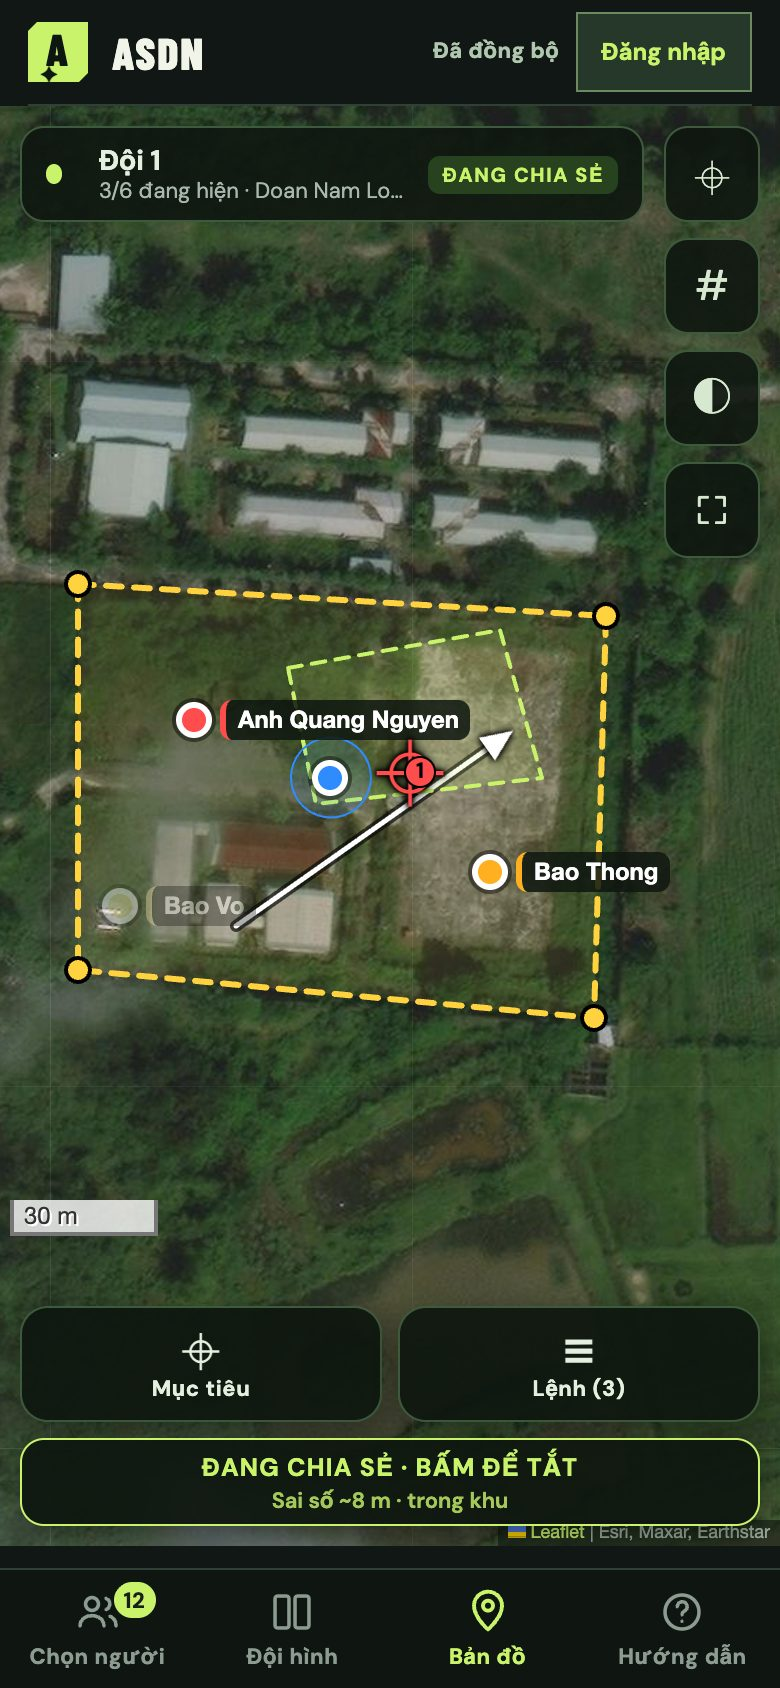
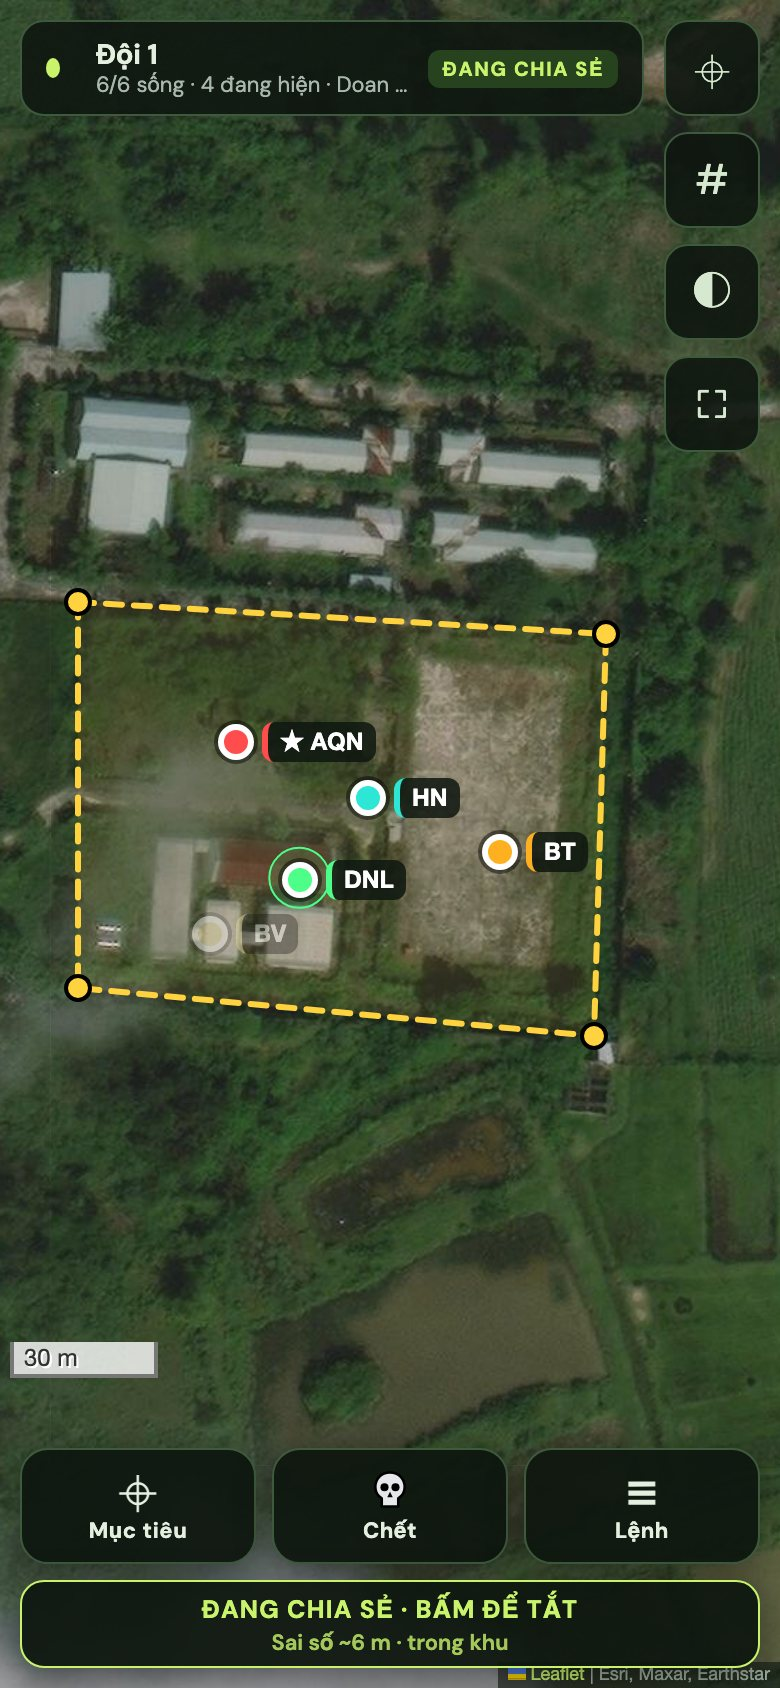
Guide: death marker screenshots (m22-m24), reshoot m05/m07/m12/m21 with the new Chết button
Shots taken from an in-memory Firestore harness, so no production data was touched. All pins and taps sit inside the play area.

diff --git a/guide-data.js b/guide-data.js
@@ -1086,7 +1086,7 @@ window.GUIDE={
        "desc": "Hiện Đội, số người đang hiện (ví dụ 3/6), tên bạn và trạng thái ĐANG CHIA SẺ / ĐANG XEM. Bấm để xem danh sách đội.",
        "role": null,
        "x": 2.56,
-       "y": 7.46,
+       "y": 1.18,
        "w": 80,
        "h": 5.69
       },
@@ -1095,7 +1095,7 @@ window.GUIDE={
        "desc": "Đưa bản đồ về vừa khu chơi (khung vàng 4 góc).",
        "role": null,
        "x": 85.13,
-       "y": 7.46,
+       "y": 1.18,
        "w": 12.31,
        "h": 5.69
       },
@@ -1104,7 +1104,7 @@ window.GUIDE={
        "desc": "Bật/tắt lưới ô vuông.",
        "role": null,
        "x": 85.13,
-       "y": 14.1,
+       "y": 7.82,
        "w": 12.31,
        "h": 5.69
       },
@@ -1113,7 +1113,7 @@ window.GUIDE={
        "desc": "Đổi giữa Esri chuẩn và Clarity.",
        "role": null,
        "x": 85.13,
-       "y": 20.73,
+       "y": 14.45,
        "w": 12.31,
        "h": 5.69
       },
@@ -1122,7 +1122,7 @@ window.GUIDE={
        "desc": "Xoay ngang để xem rộng hơn. Chỉ hiện khi máy hỗ trợ.",
        "role": null,
        "x": 85.13,
-       "y": 27.37,
+       "y": 21.09,
        "w": 12.31,
        "h": 5.69
       },
@@ -1130,8 +1130,8 @@ window.GUIDE={
        "title": "GPS đồng đội",
        "desc": "Chấm màu có tên là vị trí GPS từng đồng đội, mỗi người một màu. Mờ đi khi quá 60 giây chưa cập nhật, ẩn sau 5 phút. Người đã báo chết thì chấm GPS ẩn, chỉ còn ghim ☠ tại chỗ chết.",
        "role": null,
-       "x": 22.56,
-       "y": 41.47,
+       "x": 27.95,
+       "y": 42.77,
        "w": 0,
        "h": 2.37
       },
@@ -1139,17 +1139,17 @@ window.GUIDE={
        "title": "Chấm xanh là bạn",
        "desc": "Vị trí của bạn, kèm vòng sai số GPS.",
        "role": null,
-       "x": 40,
-       "y": 45.02,
-       "w": 4.62,
-       "h": 2.13
+       "x": 36.15,
+       "y": 50.95,
+       "w": 0,
+       "h": 2.37
       },
       {
        "title": "Nút chia sẻ",
        "desc": "Bấm để bật hoặc tắt chia sẻ vị trí. Dưới nút ghi sai số GPS và \"trong khu\" hay \"ngoài khu\".",
        "role": null,
        "x": 2.56,
-       "y": 85.18,
+       "y": 93.59,
        "w": 94.87,
        "h": 5.22
       },
@@ -1158,17 +1158,26 @@ window.GUIDE={
        "desc": "Đánh dấu mục tiêu cho cả đội (xem bên dưới).",
        "role": null,
        "x": 2.56,
-       "y": 77.36,
-       "w": 46.41,
+       "y": 85.77,
+       "w": 30.26,
+       "h": 6.87
+      },
+      {
+       "title": "☠ Chết",
+       "desc": "Bấm rồi chạm bản đồ nơi chết. Thành viên tự báo chết cho mình, đội trưởng chọn người chết.",
+       "role": null,
+       "x": 34.87,
+       "y": 85.77,
+       "w": 30.26,
        "h": 6.87
       },
       {
        "title": "☰ Lệnh",
        "desc": "Danh sách lệnh của đội, số trong ngoặc là số lệnh đang có.",
        "role": null,
-       "x": 51.03,
-       "y": 77.36,
-       "w": 46.41,
+       "x": 67.18,
+       "y": 85.77,
+       "w": 30.26,
        "h": 6.87
       }
      ],
@@ -1240,6 +1249,24 @@ window.GUIDE={
        "y": 0,
        "w": 0,
        "h": 0
+      },
+      {
+       "title": "Người đã chết",
+       "desc": "Tên gạch ngang, ghi giờ chết. Bấm để bay tới chỗ chết.",
+       "role": null,
+       "x": 4.1,
+       "y": 67.77,
+       "w": 91.79,
+       "h": 7.11
+      },
+      {
+       "title": "Hồi sinh",
+       "desc": "Báo nhầm thì bấm Hồi sinh. Người đó hoặc đội trưởng bấm được.",
+       "role": null,
+       "x": 74.36,
+       "y": 67.77,
+       "w": 21.54,
+       "h": 5.21
       }
      ],
      "alt": "Danh sách đội (bấm chip đội)"
@@ -1345,52 +1372,61 @@ window.GUIDE={
        "role": null,
        "x": 2.56,
        "y": 84.83,
-       "w": 14.1,
+       "w": 11.79,
+       "h": 7.82
+      },
+      {
+       "title": "☠ Chết",
+       "desc": "Đội trưởng chạm bản đồ rồi chọn ai chết ở đó (chọn được nhiều người).",
+       "role": null,
+       "x": 16.41,
+       "y": 84.83,
+       "w": 11.79,
        "h": 7.82
       },
       {
        "title": "Tấn công",
        "desc": "Đánh dấu hướng/điểm tấn công: chạm 1 điểm trên bản đồ (đỏ, tối đa 5).",
        "role": null,
-       "x": 18.72,
+       "x": 30.26,
        "y": 84.83,
-       "w": 14.1,
+       "w": 11.79,
        "h": 7.82
       },
       {
        "title": "Phòng thủ",
        "desc": "Đánh dấu vị trí phòng thủ: chạm 1 điểm (xanh, tối đa 5).",
        "role": null,
-       "x": 34.87,
+       "x": 44.1,
        "y": 84.83,
-       "w": 14.1,
+       "w": 11.79,
        "h": 7.82
       },
       {
        "title": "➚ Mũi tên",
        "desc": "Chỉ hướng đẩy/di chuyển: chạm ít nhất 2 điểm.",
        "role": null,
-       "x": 51.03,
+       "x": 57.95,
        "y": 84.83,
-       "w": 14.1,
+       "w": 11.79,
        "h": 7.82
       },
       {
        "title": "⬠ Vùng",
        "desc": "Khoanh một khu vực: chạm ít nhất 3 điểm.",
        "role": null,
-       "x": 67.18,
+       "x": 71.79,
        "y": 84.83,
-       "w": 14.1,
+       "w": 11.79,
        "h": 7.82
       },
       {
        "title": "☰ Lệnh",
        "desc": "Danh sách lệnh, và nút XÓA TẤT CẢ LỆNH (bấm 2 lần để xác nhận).",
        "role": null,
-       "x": 83.33,
+       "x": 85.64,
        "y": 84.83,
-       "w": 14.1,
+       "w": 11.79,
        "h": 7.82
       }
      ],
@@ -1405,8 +1441,8 @@ window.GUIDE={
        "title": "Tấn công",
        "desc": "Dấu đỏ, có số thứ tự (Tấn công 1, 2, …). Cả đội thấy trên bản đồ.",
        "role": null,
-       "x": 25.13,
-       "y": 63.74,
+       "x": 17.95,
+       "y": 45.14,
        "w": 11.28,
        "h": 5.21
       },
@@ -1414,8 +1450,8 @@ window.GUIDE={
        "title": "Phòng thủ",
        "desc": "Dấu xanh, có số thứ tự (Phòng thủ 1, 2, …). Cả đội thấy trên bản đồ.",
        "role": null,
-       "x": 66.15,
-       "y": 54.27,
+       "x": 59.74,
+       "y": 53.91,
        "w": 11.28,
        "h": 5.21
       }
@@ -1510,8 +1546,113 @@ window.GUIDE={
      ]
     },
     {
+     "t": "fig",
+     "shot": "m24-death-hint",
+     "caption": "Thành viên: chạm nơi bạn chết",
+     "marks": [
+      {
+       "title": "Dòng gợi ý",
+       "desc": "Chạm lên bản đồ đúng nơi bạn chết. Ghi luôn, không hỏi lại.",
+       "role": null,
+       "x": 2.56,
+       "y": 8.06,
+       "w": 80,
+       "h": 4.21
+      },
+      {
+       "title": "✕ Hủy",
+       "desc": "Bấm nếu không muốn báo chết nữa.",
+       "role": null,
+       "x": 2.56,
+       "y": 91.94,
+       "w": 94.87,
+       "h": 6.87
+      }
+     ],
+     "alt": "Gợi ý chạm bản đồ khi báo chết"
+    },
+    {
+     "t": "fig",
+     "shot": "m22-death-pin",
+     "caption": "Ghim ☠ và số người còn sống",
+     "marks": [
+      {
+       "title": "Số người sống",
+       "desc": "Ô Đội hiện số người còn sống, ví dụ 4/6.",
+       "role": null,
+       "x": 2.56,
+       "y": 1.18,
+       "w": 80,
+       "h": 5.69
+      },
+      {
+       "title": "Huy hiệu ☠",
+       "desc": "Số người đã chết trong đội.",
+       "role": null,
+       "x": 45.16,
+       "y": 2.84,
+       "w": 7.22,
+       "h": 2.37
+      },
+      {
+       "title": "Ghim ☠",
+       "desc": "Nơi người đó chết, viền theo màu và chữ viết tắt của họ. Chạm để xem giờ chết hoặc hồi sinh.",
+       "role": null,
+       "x": 23.85,
+       "y": 51.54,
+       "w": 6.15,
+       "h": 3.67
+      },
+      {
+       "title": "☠ Chết",
+       "desc": "Bấm rồi chạm bản đồ nơi chết. Thành viên tự báo chết cho mình, đội trưởng chọn người chết.",
+       "role": null,
+       "x": 16.41,
+       "y": 84.82,
+       "w": 11.79,
+       "h": 7.82
+      }
+     ],
+     "alt": "Ghim đầu lâu tại nơi đồng đội chết"
+    },
+    {
      "t": "p",
      "html": "<b>Đội trưởng</b> báo chết cho người khác: bấm <b>☠ Chết</b>, chạm nơi người đó chết, rồi chọn <b>ai chết ở đây</b> (chọn được nhiều người nếu cùng chết một chỗ) và bấm <b>BÁO CHẾT</b>. Dùng khi đồng đội quên bấm hoặc không cầm điện thoại. Đội trưởng cũng hồi sinh được bất kỳ ai trong đội."
+    },
+    {
+     "t": "fig",
+     "shot": "m23-death-pick",
+     "caption": "Đội trưởng: chọn ai chết ở đây",
+     "marks": [
+      {
+       "title": "Danh sách đội",
+       "desc": "Chọn một hoặc nhiều người cùng chết ở chỗ vừa chạm.",
+       "role": null,
+       "x": 4.1,
+       "y": 36.49,
+       "w": 91.79,
+       "h": 46.21
+      },
+      {
+       "title": "Đã chọn",
+       "desc": "Chạm lần nữa để bỏ chọn.",
+       "role": null,
+       "x": 4.1,
+       "y": 52.13,
+       "w": 91.79,
+       "h": 7.11
+      },
+      {
+       "title": "BÁO CHẾT",
+       "desc": "Ghi những người đã chọn là chết tại điểm đã chạm.",
+       "role": null,
+       "x": 4.1,
+       "y": 85.07,
+       "w": 91.79,
+       "h": 6.16
+      }
+     ],
+     "alt": "Đội trưởng chọn người chết"
     },
     {
      "t": "p",

diff --git a/guide.js b/guide.js
@@ -16,7 +16,7 @@
 
   function figure(b) {
     var fig = el('div', 'g-fig');
-    var shot = el('div', 'g-shot'); var img = el('img'); img.src = 'guide/' + b.shot + '.jpg?v=5'; img.alt = b.alt || b.caption || ''; img.loading = 'lazy'; shot.append(img);
+    var shot = el('div', 'g-shot'); var img = el('img'); img.src = 'guide/' + b.shot + '.jpg?v=6'; img.alt = b.alt || b.caption || ''; img.loading = 'lazy'; shot.append(img);
     var legend = el('ol', 'g-legend');
     b.marks.forEach(function (m) {
       var box = el('div', 'g-mk'); box.dataset.role = m.role || ''; box.style.cssText = 'left:' + m.x + '%;top:' + m.y + '%;width:' + m.w + '%;height:' + m.h + '%'; box.append(el('i'));

diff --git a/index.html b/index.html
@@ -24,8 +24,8 @@
   <script type="module" src="app.js?v=mob26"></script>
   <script defer src="nav.js?v=mob19"></script>
   <script defer src="mobile.js?v=mob19"></script>
-  <script defer src="guide-data.js?v=mob25"></script>
-  <script defer src="guide.js?v=mob22"></script>
+  <script defer src="guide-data.js?v=mob26"></script>
+  <script defer src="guide.js?v=mob23"></script>
 </head>
 <body>
   <div class="app-shell">
